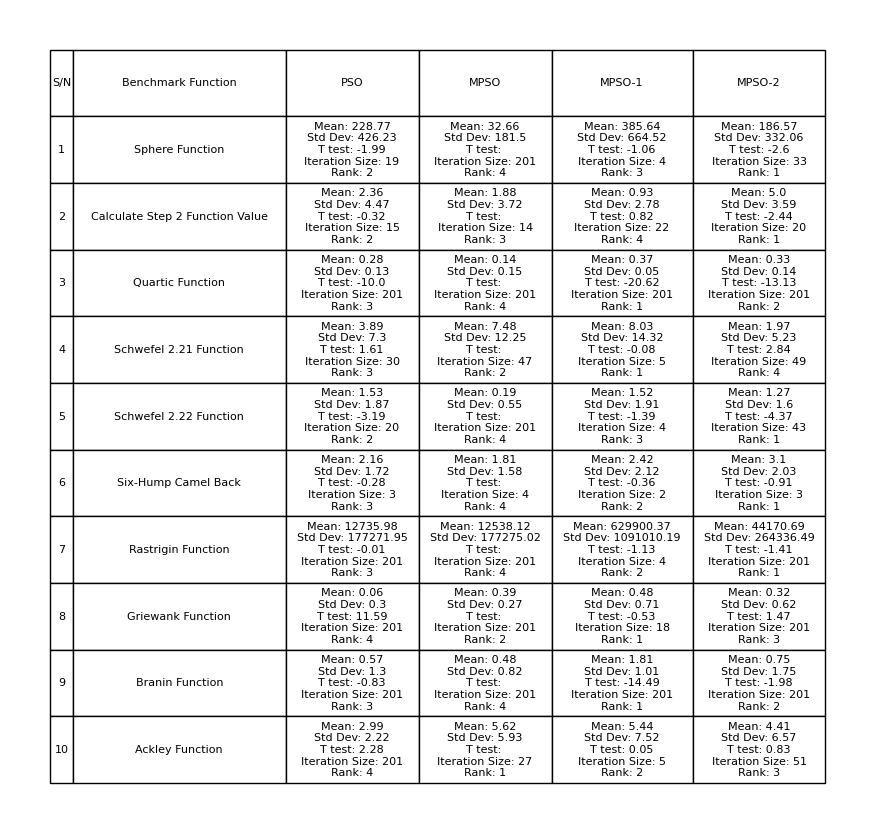
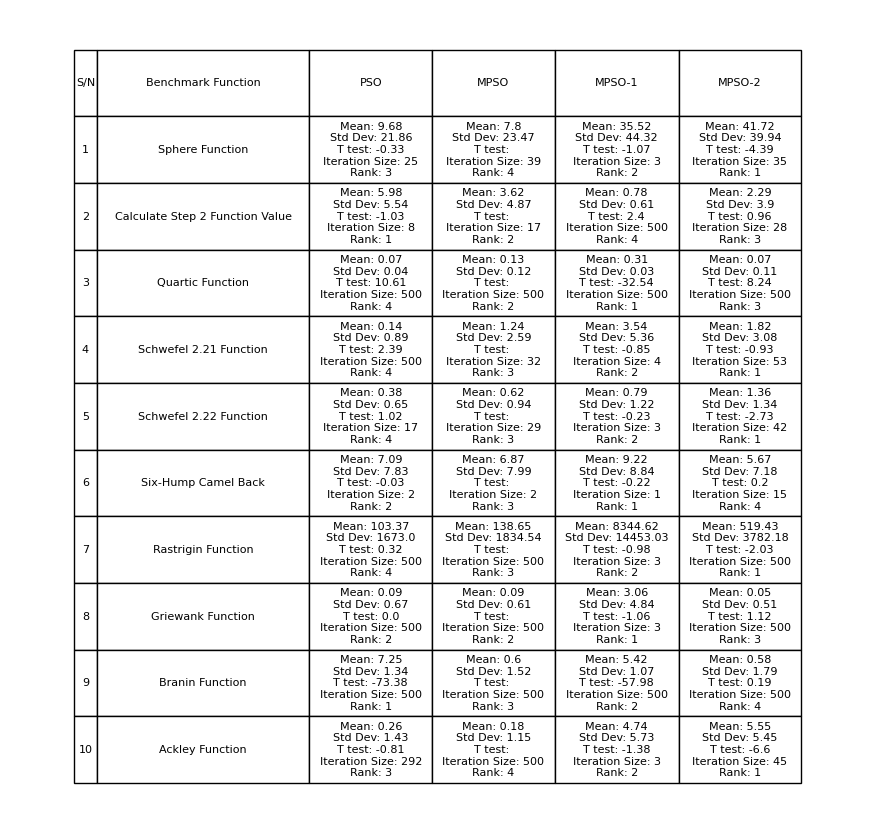
feat: plot comparison

diff --git a/pr/optimization_algorithm.py b/pr/optimization_algorithm.py
@@ -295,7 +295,7 @@ def get_algorithm_values(algorithm, benchmark_function, particles):
             get_is_stopping_criteria_reached(
                 benchmark_function, iteration["g_best"]["value"]
             )
-            or iteration_count == 200
+            or iteration_count == 500
         ):
             is_stopping_criteria_reached = True
         iteration_count += 1
@@ -307,7 +307,7 @@ def get_algorithm_values(algorithm, benchmark_function, particles):
     )
     iteration_g_bests_mean = round(statistics.mean(iteration_g_bests), 2)
     return {
-        "iteration_count": len(iterations),
+        "iteration_count": len(iterations) - 1,
         "standard_deviation": iteration_g_bests_standard_deviation,
         "mean": iteration_g_bests_mean,
     }
